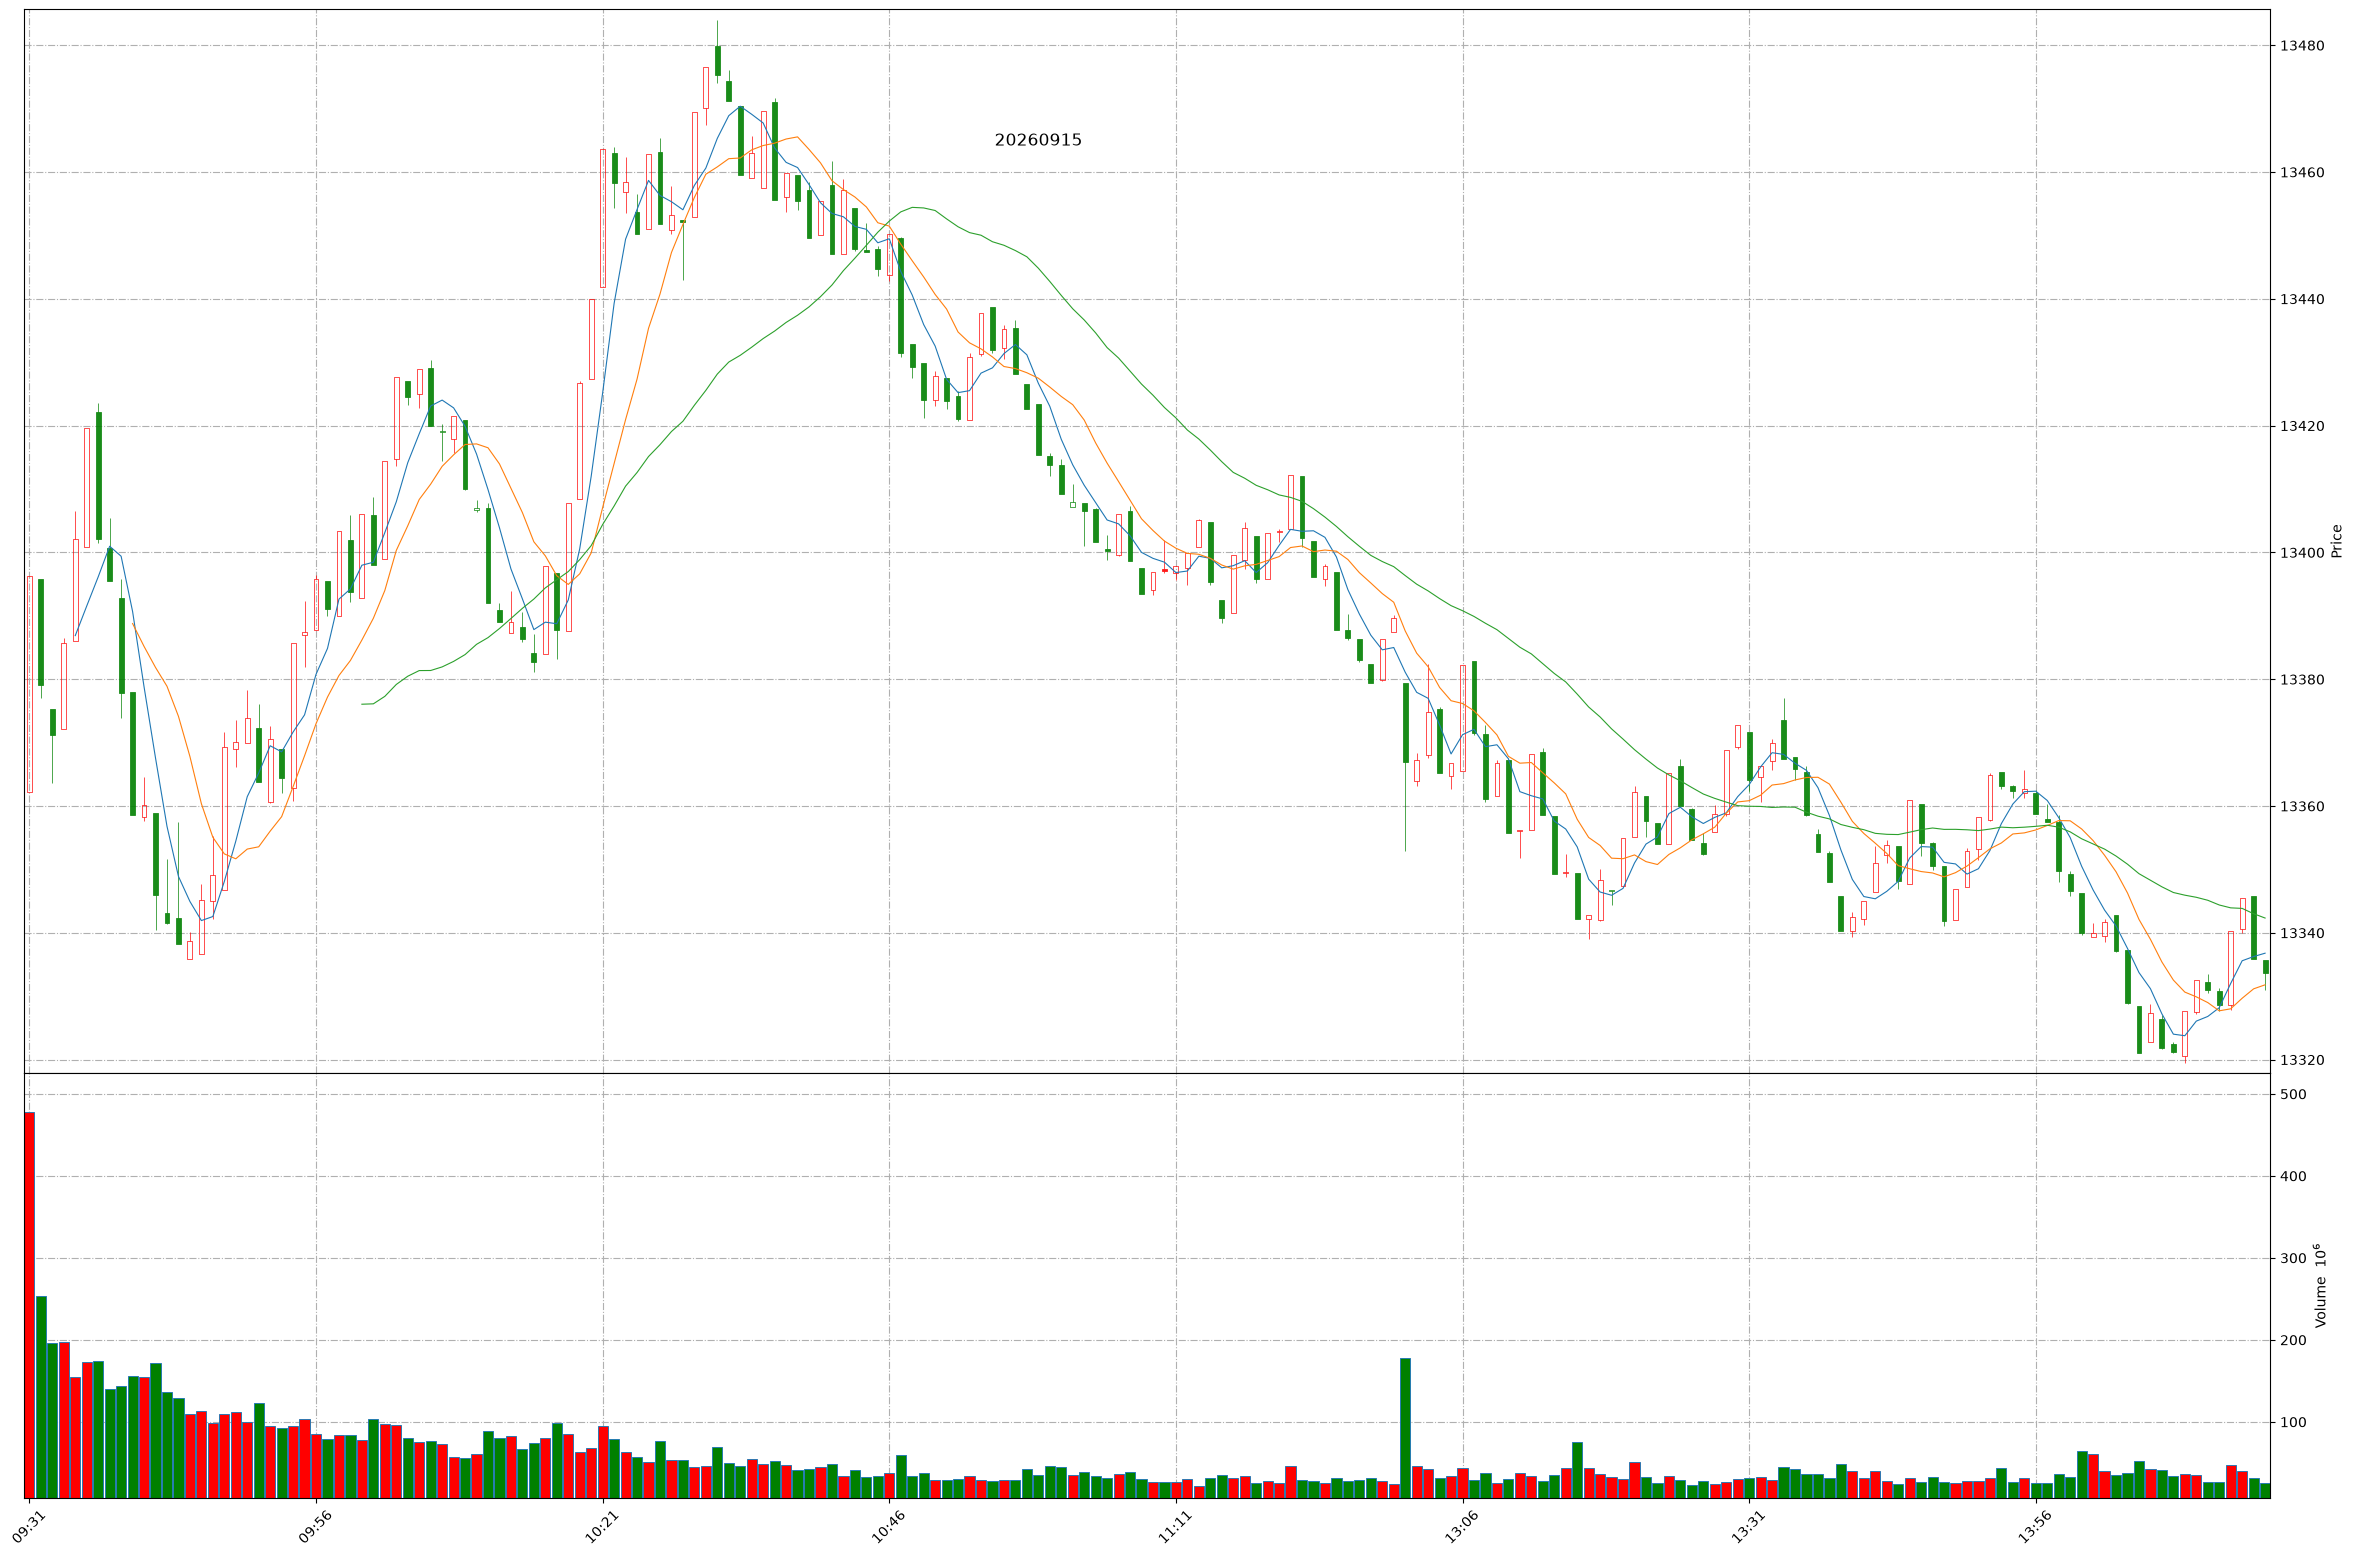
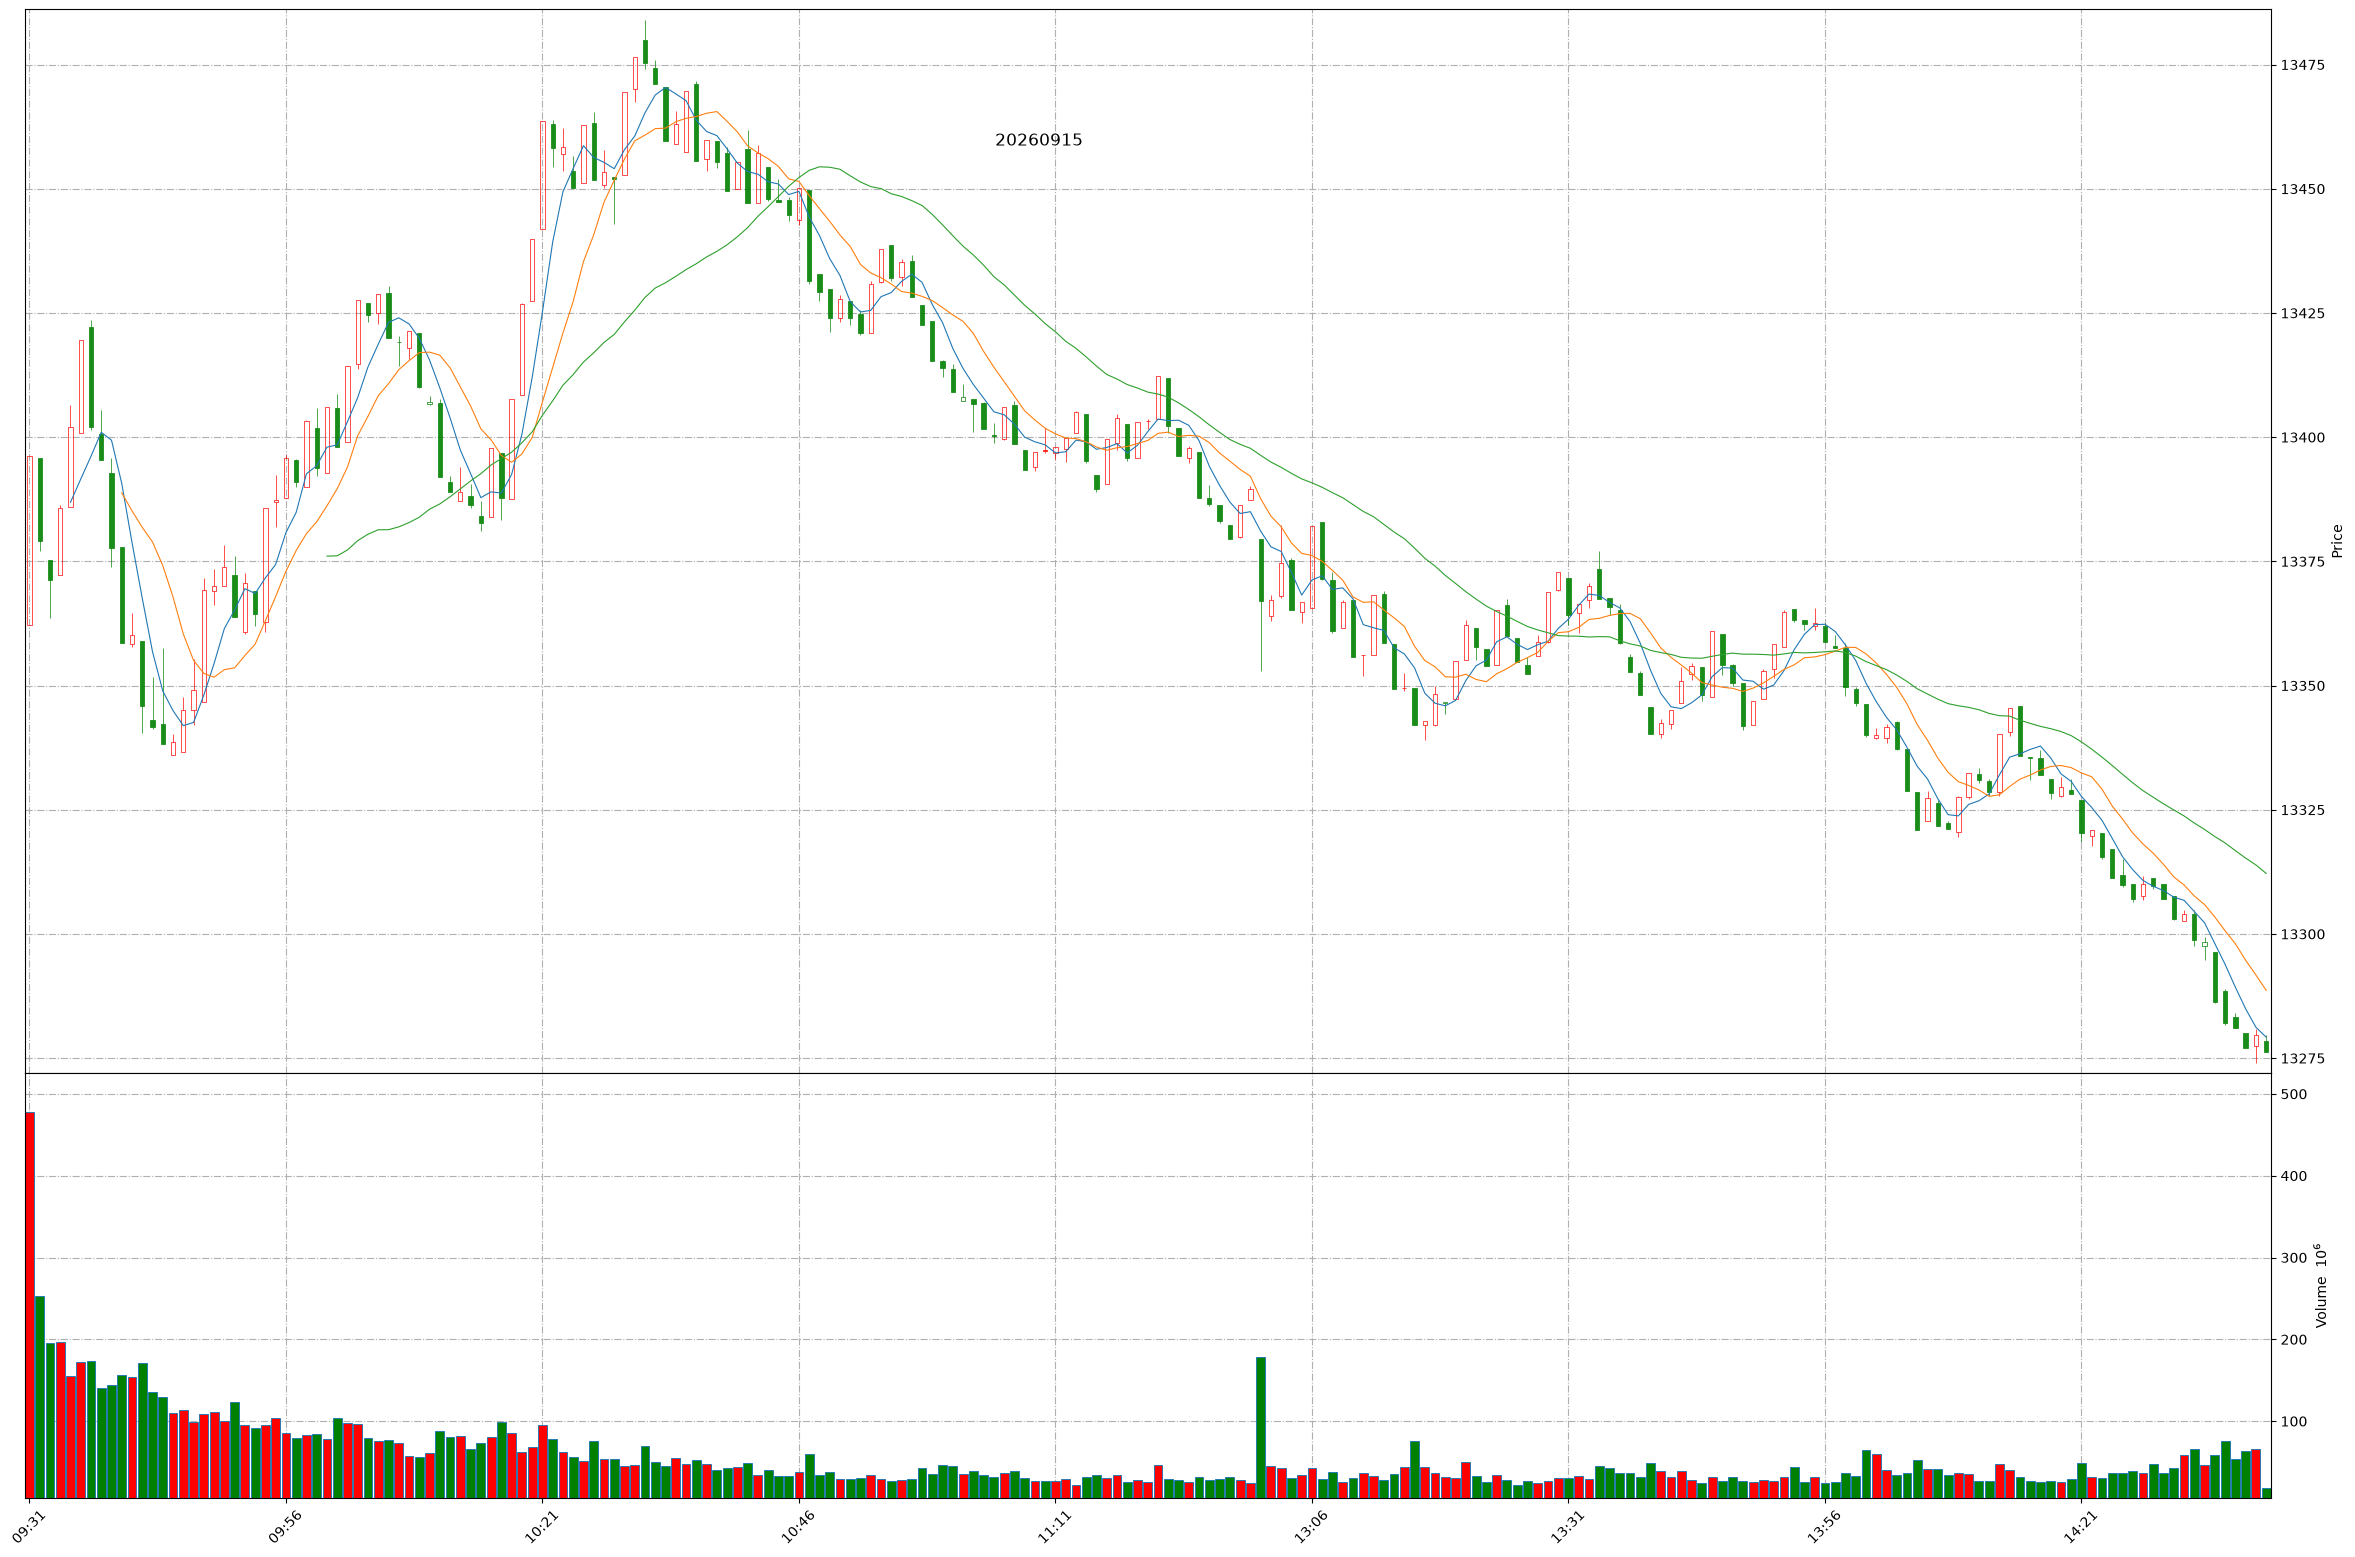
Github action update at 2026-09-15 14:38:39.

diff --git a/README.md b/README.md
@@ -1,11 +1,11 @@
 
 # Daily-A-share-market-quotes 每日 A 股指数（5min 更新）- 20260915
 
-### 上证指数 20260915 14:16
+### 上证指数 20260915 14:38
 ![](./fig/2026/9/20260915-sh000001.png)
 
-### 深证成指 20260915 14:16
+### 深证成指 20260915 14:38
 ![](./fig/2026/9/20260915-sz399001.png)
 
-### 北证50 20260915 14:16
+### 北证50 20260915 14:38
 ![](./fig/2026/9/20260915-bj899050.png)
